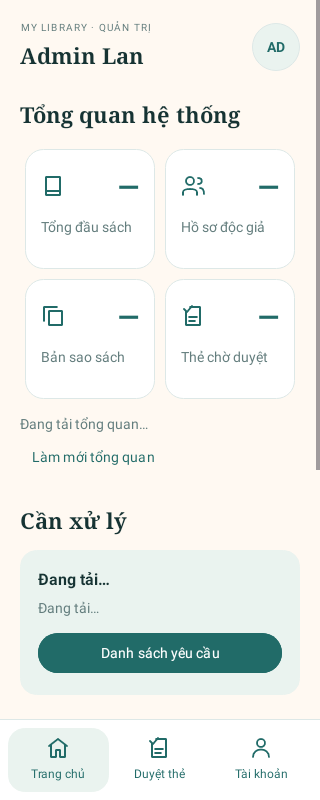
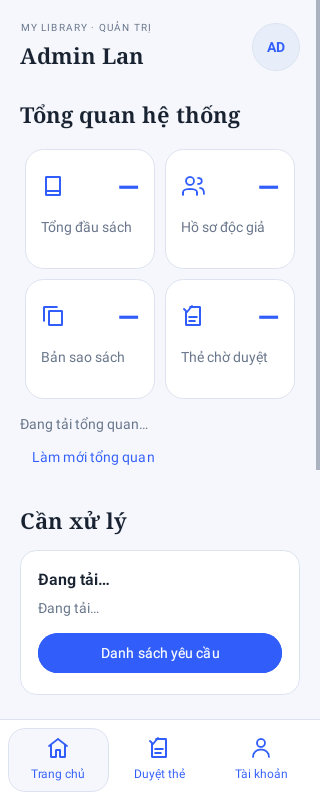
fix: align Admin home with shared Library Online colors

diff --git a/LibraryOnline/app/src/main/java/com/example/libraryonline/ui/admin/AdminMainActivity.java b/LibraryOnline/app/src/main/java/com/example/libraryonline/ui/admin/AdminMainActivity.java
@@ -261,22 +261,22 @@ public class AdminMainActivity extends com.example.libraryonline.ui.auth.Session
         params.topMargin = dp(12);
         card.setLayoutParams(params);
 
-        card.addView(makeText(value(doc, "fullName", "Chưa có họ tên"), 18, "#163333", true));
-        card.addView(makeText("CHỜ XÁC MINH", 11, "#B45309", true));
-        card.addView(makeText("Ngày sinh: " + value(doc, "birthDate", "Chưa cung cấp"), 14, "#637D7D", false));
-        card.addView(makeText("Email: " + value(doc, "email", "Chưa cung cấp"), 14, "#637D7D", false));
-        card.addView(makeText("Số điện thoại: " + value(doc, "phone", "Chưa cung cấp"), 14, "#637D7D", false));
+        card.addView(makeText(value(doc, "fullName", "Chưa có họ tên"), 18, R.color.library_text, true));
+        card.addView(makeText("CHỜ XÁC MINH", 11, R.color.library_warning, true));
+        card.addView(makeText("Ngày sinh: " + value(doc, "birthDate", "Chưa cung cấp"), 14, R.color.library_muted, false));
+        card.addView(makeText("Email: " + value(doc, "email", "Chưa cung cấp"), 14, R.color.library_muted, false));
+        card.addView(makeText("Số điện thoại: " + value(doc, "phone", "Chưa cung cấp"), 14, R.color.library_muted, false));
 
         LinearLayout actions = new LinearLayout(this);
         actions.setOrientation(LinearLayout.HORIZONTAL);
         Button reject = new Button(this);
         reject.setText("Từ chối");
-        reject.setTextColor(android.graphics.Color.rgb(185, 28, 28));
+        reject.setTextColor(androidx.core.content.ContextCompat.getColor(this,R.color.library_danger));
         Button approve = new Button(this);
         approve.setText("Duyệt & gửi email");
-        approve.setTextColor(android.graphics.Color.WHITE);
+        approve.setTextColor(androidx.core.content.ContextCompat.getColor(this,R.color.library_surface));
         approve.setBackgroundTintList(android.content.res.ColorStateList.valueOf(
-                android.graphics.Color.rgb(33, 107, 104)));
+                androidx.core.content.ContextCompat.getColor(this,R.color.library_blue)));
         LinearLayout.LayoutParams rejectParams = new LinearLayout.LayoutParams(0,
                 LinearLayout.LayoutParams.WRAP_CONTENT, 1);
         rejectParams.rightMargin = dp(8);
@@ -409,14 +409,14 @@ public class AdminMainActivity extends com.example.libraryonline.ui.auth.Session
         cardParams.topMargin = dp(12);
         card.setLayoutParams(cardParams);
 
-        card.addView(makeText(value(doc, "fullName", "Chưa có họ tên"), 18, "#163333", true));
-        TextView status = makeText("CHỜ DUYỆT", 11, "#B45309", true);
+        card.addView(makeText(value(doc, "fullName", "Chưa có họ tên"), 18, R.color.library_text, true));
+        TextView status = makeText("CHỜ DUYỆT", 11, R.color.library_warning, true);
         status.setPadding(0, dp(4), 0, dp(10));
         card.addView(status);
         card.addView(makeText("Ngày sinh: " + value(doc, "birthDate",
-                value(doc, "dateOfBirth", "Chưa cung cấp")), 14, "#637D7D", false));
-        card.addView(makeText("Email: " + value(doc, "email", "Chưa cung cấp"), 14, "#637D7D", false));
-        card.addView(makeText("Số điện thoại: " + value(doc, "phone", "Chưa cung cấp"), 14, "#637D7D", false));
+                value(doc, "dateOfBirth", "Chưa cung cấp")), 14, R.color.library_muted, false));
+        card.addView(makeText("Email: " + value(doc, "email", "Chưa cung cấp"), 14, R.color.library_muted, false));
+        card.addView(makeText("Số điện thoại: " + value(doc, "phone", "Chưa cung cấp"), 14, R.color.library_muted, false));
 
         Object createdAt = doc.get("createdAt");
         String created = "Thời gian gửi: Chưa rõ";
@@ -425,7 +425,7 @@ public class AdminMainActivity extends com.example.libraryonline.ui.auth.Session
             created = "Thời gian gửi: " + DateFormat.getDateTimeInstance(
                     DateFormat.SHORT, DateFormat.SHORT, new Locale("vi", "VN")).format(date);
         }
-        TextView time = makeText(created, 12, "#94A3B8", false);
+        TextView time = makeText(created, 12, R.color.library_muted, false);
         time.setPadding(0, dp(8), 0, dp(12));
         card.addView(time);
 
@@ -433,12 +433,12 @@ public class AdminMainActivity extends com.example.libraryonline.ui.auth.Session
         actions.setOrientation(LinearLayout.HORIZONTAL);
         Button reject = new Button(this);
         reject.setText("Từ chối");
-        reject.setTextColor(android.graphics.Color.rgb(185, 28, 28));
+        reject.setTextColor(androidx.core.content.ContextCompat.getColor(this,R.color.library_danger));
         Button approve = new Button(this);
         approve.setText("Duyệt hồ sơ");
-        approve.setTextColor(android.graphics.Color.WHITE);
+        approve.setTextColor(androidx.core.content.ContextCompat.getColor(this,R.color.library_surface));
         approve.setBackgroundTintList(android.content.res.ColorStateList.valueOf(
-                android.graphics.Color.rgb(33, 107, 104)));
+                androidx.core.content.ContextCompat.getColor(this,R.color.library_blue)));
         LinearLayout.LayoutParams rejectParams = new LinearLayout.LayoutParams(0,
                 LinearLayout.LayoutParams.WRAP_CONTENT, 1);
         rejectParams.rightMargin = dp(8);
@@ -663,11 +663,11 @@ public class AdminMainActivity extends com.example.libraryonline.ui.auth.Session
         return value == null || value.trim().isEmpty() ? fallback : value;
     }
 
-    private TextView makeText(String text, int sizeSp, String color, boolean bold) {
+    private TextView makeText(String text, int sizeSp, @androidx.annotation.ColorRes int color, boolean bold) {
         TextView view = new TextView(this);
         view.setText(text);
         view.setTextSize(sizeSp);
-        view.setTextColor(android.graphics.Color.parseColor(color));
+        view.setTextColor(androidx.core.content.ContextCompat.getColor(this,color));
         if (bold) view.setTypeface(Typeface.DEFAULT, Typeface.BOLD);
         LinearLayout.LayoutParams params = new LinearLayout.LayoutParams(
                 LinearLayout.LayoutParams.MATCH_PARENT, LinearLayout.LayoutParams.WRAP_CONTENT);

diff --git a/LibraryOnline/app/src/test/java/com/example/libraryonline/ui/admin/AdminHomeViewTest.java b/LibraryOnline/app/src/test/java/com/example/libraryonline/ui/admin/AdminHomeViewTest.java
@@ -39,10 +39,27 @@ public class AdminHomeViewTest {
         String output=System.getenv("ADMIN_HOME_PREVIEW");
         if(output!=null) {
             ((TextView)screen.findViewById(R.id.textAdminSession)).setText("Admin Lan");
-            android.graphics.Bitmap bitmap=android.graphics.Bitmap.createBitmap(320,800,android.graphics.Bitmap.Config.ARGB_8888);
-            root.draw(new android.graphics.Canvas(bitmap));
-            try(java.io.FileOutputStream stream=new java.io.FileOutputStream(output)){bitmap.compress(android.graphics.Bitmap.CompressFormat.PNG,100,stream);}
+            writePreview(root,output);
+            // Optional visual review: existing screens under the same app theme, day and night.
+            for(boolean night:new boolean[]{false,true}) {
+                RuntimeEnvironment.setQualifiers("w320dp-h800dp"+(night?"-night":"-notnight")+"-mdpi");
+                screen.getTheme().applyStyle(R.style.Theme_LibraryOnline,true);
+                int[] layouts={R.layout.activity_admin_main,R.layout.activity_login,R.layout.home_reader_activity};
+                String[] names={"admin","login","reader"};
+                for(int i=0;i<layouts.length;i++) {
+                    screen.setContentView(layouts[i]);
+                    View content=((android.view.ViewGroup)screen.findViewById(android.R.id.content)).getChildAt(0);
+                    writePreview(content,output.replace(".png","-"+names[i]+(night?"-night":"-day")+".png"));
+                }
+            }
         }
+    }
+    private void writePreview(View root,String path) throws Exception {
+        root.measure(View.MeasureSpec.makeMeasureSpec(320,View.MeasureSpec.EXACTLY),View.MeasureSpec.makeMeasureSpec(800,View.MeasureSpec.EXACTLY));
+        root.layout(0,0,320,800);
+        android.graphics.Bitmap bitmap=android.graphics.Bitmap.createBitmap(320,800,android.graphics.Bitmap.Config.ARGB_8888);
+        root.draw(new android.graphics.Canvas(bitmap));
+        try(java.io.FileOutputStream stream=new java.io.FileOutputStream(path)){bitmap.compress(android.graphics.Bitmap.CompressFormat.PNG,100,stream);}
     }
     @Test public void shortcutsAndTabsOpenRealPanelsAndKeepSelectionConsistent() {
         AdminHomeView home=new AdminHomeView(screen,AdminHomeView.HOME);

diff --git a/LibraryOnline/docs/ADMIN_HOME_UI.md b/LibraryOnline/docs/ADMIN_HOME_UI.md
@@ -1,6 +1,6 @@
 # Home Admin
 
-Hoàn thiện giao diện Java/XML theo bố cục trang Admin trong PDF Figma người dùng cung cấp: nền kem, chữ xanh đậm, thẻ thống kê bo góc, tiêu đề serif và các nhóm tổng quan/công việc/lối tắt.
+Hoàn thiện giao diện Java/XML theo bố cục trang Admin trong PDF Figma người dùng cung cấp: thẻ thống kê bo góc, tiêu đề serif và các nhóm tổng quan/công việc/lối tắt. Theo yêu cầu đồng bộ màu tiếp theo, Home Admin dùng bảng màu chung của Login/Reader trong `colors.xml`, không dùng nền kem và bảng màu riêng. Xem [quy chuẩn màu](UI_COLORS.md).
 
 ![Home Admin trên khung 320dp](screenshots/admin-home.png)
 
@@ -32,7 +32,7 @@ Các phần Figma như biểu đồ mượn, số Admin hoạt động, báo cá
 - `ui/admin/AdminMainActivity.java`: nối layout, số liệu tổng quan read-only, trạng thái yêu cầu, tab/back/insets, tài khoản và nút đồng bộ đang có; cập nhật màu thẻ yêu cầu.
 - `ui/admin/AdminHomeView.java`: điều hướng giữa ba vùng và lối tắt; khôi phục tab.
 - `res/layout/activity_admin_main.xml`: toàn bộ cấu trúc Home/Requests/Account và thanh điều hướng.
-- `res/values/admin_colors.xml`, `admin_strings.xml`, `admin_styles.xml`: màu, nội dung và kiểu giao diện Admin.
+- `res/values/colors.xml`, `themes.xml`: bảng màu chung và theme sáng; `admin_strings.xml`, `admin_styles.xml`: nội dung và kiểu giao diện Admin. `admin_colors.xml` đã được bỏ.
 - `res/drawable/bg_admin_{avatar,card,nav,soft}.xml`: nền thẻ/avatar/tab.
 - `res/drawable/ic_admin_{account,arrow,book,check,copy,home,people,refresh}.xml`: icon vector.
 - `src/test/.../ui/admin/AdminHomeViewTest.java`: mặc định không hiển thị số mẫu, tab/lối tắt/khôi phục, render khung nhỏ.
@@ -44,9 +44,19 @@ Các phần Figma như biểu đồ mượn, số Admin hoạt động, báo cá
 Ngày 21/10/2026:
 
 - `:app:testDebugUnitTest :app:assembleDebug :app:lintDebug`: BUILD SUCCESSFUL; **48 test, 0 fail/error/skip**, APK debug tạo thành công.
-- Lint: **0 lỗi, 205 cảnh báo**. Lỗi API accessibilityHeading trong lượt đầu đã sửa bằng ViewCompat, không tắt kiểm tra.
+- Lint: **0 lỗi, 204 cảnh báo**. Lỗi API accessibilityHeading trong lượt đầu đã sửa bằng ViewCompat, không tắt kiểm tra.
 - Firestore emulator `demo-library-online`: **12/12 test đạt**, gồm aggregation cho Admin và từ chối Reader query toàn bộ Users.
 - `git diff --check`: đạt.
 - Đã xem ảnh render layout thật ở 320dp. Chưa thao tác trên thiết bị/Android emulator hoặc Firebase production; cần smoke test với tài khoản thật sau khi kéo mã.
 
 Không thay schema, dependency, lockfile hoặc `firestore.rules`. Không deploy Firebase và không ghi/migration dữ liệu cloud. **Không cần cập nhật Rules cho thay đổi Home Admin này.**
+
+
+## Kiểm tra sau khi đồng bộ màu
+
+- Admin dùng trực tiếp `library_background`, `library_surface`, `library_text`, `library_muted`, `library_border` và màu thương hiệu `library_blue` có sẵn. Màu trạng thái chờ/từ chối/đăng xuất giữ nguyên giá trị và tập trung trong `colors.xml`.
+- Các thẻ và khu vực nổi dùng surface trắng. Avatar/tab được chọn tái sử dụng các màu nền đã có; không tạo sắc nền mới.
+- Theme khai báo surface, nền nổi và chữ dùng resource chung. Bỏ override DayNight trong `values-night/themes.xml` để các cấu hình đều dùng theme Light hiện có.
+- Render Admin, Login, Reader ở 320dp với cấu hình `notnight` và `night`: nền cả ba là RGB(245,247,252), tức `#F5F7FC`; ảnh day/night của từng màn hình giống nhau trong phép so sánh pixel.
+- Chạy lại toàn bộ 48 test Android, build debug và lint thành công. Chưa kiểm tra trực tiếp trên thiết bị thật.
+- Không thay đổi Rules hoặc deploy Firebase.

diff --git a/LibraryOnline/docs/UI_COLORS.md b/LibraryOnline/docs/UI_COLORS.md
@@ -1,0 +1,28 @@
+# Quy chuẩn màu Library Online
+
+Trước khi tạo/chỉnh giao diện, đọc `app/src/main/res/values/colors.xml`, `themes.xml`, các style và layout đã hoàn thành. Hiện không có `styles.xml` chung; `admin_styles.xml` chỉ chứa kiểu bố cục/chữ và tham chiếu màu chung.
+
+Bảng màu gốc đã được định nghĩa và đang dùng trên Login/Reader, vì vậy ưu tiên bảng này thay cho màu tạm thời:
+
+| Vai trò | Resource chuẩn | Giá trị |
+|---|---|---|
+| Nền màn hình | `library_background` | `#F5F7FC` |
+| Thẻ, dialog, khu vực nổi | `library_surface` | `#FFFFFF` |
+| Nền ô nhập | `library_surface` | `#FFFFFF` |
+| Viền | `library_border` | `#DCE3EF` |
+| Chữ chính | `library_text` | `#182230` |
+| Chữ phụ | `library_muted` | `#68758A` |
+| Thương hiệu, nút chính, icon hành động | `library_blue` | `#315EFB` |
+| Navy đã có | `library_navy` | `#172B4D` |
+| Nền nhấn nhẹ đã có ở avatar/cover Reader | `library_accent_background` | `#E8EEF9` |
+
+Các màu trạng thái hiện có được giữ nguyên: `library_success`, `library_warning`, `library_danger`; màu đăng xuất hiện có là `library_logout`. `reader_cover_placeholder` tham chiếu màu nhấn nhẹ chung để tương thích mã cũ.
+
+- Định nghĩa màu trong `colors.xml`, tham chiếu resource ở XML và `ContextCompat.getColor` ở Java. Không tạo palette riêng theo màn hình hoặc hardcode màu trong layout/drawable/Java mới.
+- Dùng background cho toàn màn hình, surface cho thẻ/dialog/ô nhập. Không thêm nền tối, gradient hay một sắc nền riêng cho màn hình mới.
+- Đối chiếu Figma và các màn hình đã hoàn thành trước khi sửa. PDF Admin có nền kem, nhưng yêu cầu đồng bộ màu hiện tại ưu tiên bảng màu chung đã dùng trong Login/Reader; bố cục Admin vẫn theo PDF.
+- Giữ màu thương hiệu/nút/icon và trạng thái đã thống nhất. Không thay số liệu hoặc nghiệp vụ trong một lần chỉnh màu.
+- Dùng cùng `Theme.LibraryOnline` sáng cả khi thiết bị bật chế độ tối; không bổ sung override DayNight riêng làm nền thẻ/dialog lệch màu.
+- Kiểm tra Admin/Login/Reader cùng theme, bao gồm loading, thẻ nội dung, ô nhập và cấu hình night/notnight. Ảnh Robolectric là kiểm tra layout/theme; không thay thế smoke test trên thiết bị thật.
+
+Nếu một dự án/giao diện chưa có màu gốc, bộ dự phòng được người dùng đưa ra là background `#F7F8FA`, surface/input `#FFFFFF`, border `#E5E7EB`, text_primary `#1F2937`, text_secondary `#6B7280`. Không áp dụng bộ dự phòng để ghi đè bảng màu gốc hiện có của Library Online.
